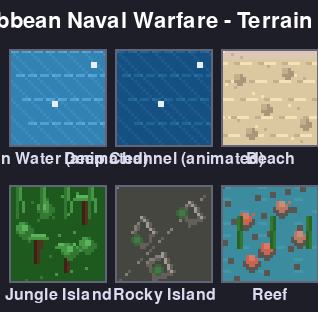
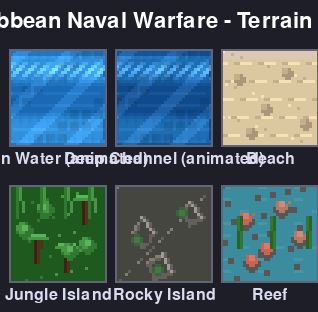
feat: Dramatically improve water animation with realistic wave physics
Completely rewrote water tile generation algorithm with multi-layer wave system:

- Layer 1: Large rolling waves using sine functions for horizontal motion (slow, realistic ocean swells)
- Layer 2: Diagonal waves creating depth and perpendicular motion (medium speed)
- Layer 3: Small ripples with fast perpendicular movement (surface detail)
- Layer 4: Dynamic foam on wave crests that appears at peak heights
- Layer 5: Animated sparkles simulating sunlight reflections on water surface
- Layer 6: Depth variations with darker patches for realistic ocean depth perception

Technical improvements:
- Used math.sin() with phase calculations (frame/8 * 2π) for smooth sinusoidal wave motion
- Multiple wave frequencies (0.3, 0.4, 0.8) create complex, natural-looking water
- Wave intensity blending from 0-1 for smooth color gradients
- Foam appears dynamically only on high wave crests (wave_height > 1.3)
- Sparkles cycle through 16-phase animation for twinkling effect
- Depth darkening adds 3D perception to flat tiles

Color palette refined:
- Caribbean blue tones: WATER_BASE (25,105,180) to WATER_HIGHLIGHT (80,170,240)
- Deep ocean variant: DEEP_BASE (15,75,140) for darker deep channel water
- White sparkles and blue-white foam for realistic highlights

Result: Stylized but realistic-looking animated ocean water with visible flowing waves, foam, and dynamic lighting effects. Water now looks like actual Caribbean ocean instead of flat blue tiles.

Changed region(s): [[0.0283, 0.1442, 0.3396, 0.4904], [0.3679, 0.1442, 0.6792, 0.4904]]

diff --git a/scripts/create_terrain_tiles.py b/scripts/create_terrain_tiles.py
@@ -21,17 +21,19 @@ pygame.init()
 TILE_SIZE = 32
 TRANSPARENT = (0, 0, 0, 0)
 
-# Water colors (animated gradients)
-WATER_LIGHT_1 = (80, 160, 210)
-WATER_LIGHT_2 = (90, 170, 220)
-WATER_MID_1 = (50, 130, 180)
-WATER_MID_2 = (60, 140, 190)
-WATER_DARK_1 = (30, 100, 150)
-WATER_DARK_2 = (40, 110, 160)
-WATER_DEEP_1 = (20, 80, 130)
-WATER_DEEP_2 = (25, 90, 140)
-FOAM_WHITE = (255, 255, 255)
-FOAM_LIGHT = (230, 240, 250)
+# Water colors - Caribbean ocean palette
+WATER_BASE = (25, 105, 180)        # Deep blue base
+WATER_MID = (35, 125, 200)         # Medium blue
+WATER_LIGHT = (50, 145, 220)       # Light blue
+WATER_HIGHLIGHT = (80, 170, 240)   # Bright highlight
+WATER_FOAM = (200, 220, 240)       # Foam white-blue
+WATER_SPARKLE = (255, 255, 255)    # White sparkle
+
+# Deep water colors (darker, deeper ocean)
+DEEP_BASE = (15, 75, 140)
+DEEP_MID = (20, 90, 160)
+DEEP_LIGHT = (30, 110, 180)
+DEEP_HIGHLIGHT = (45, 130, 200)
 
 # Beach/sand colors
 SAND_LIGHT = (245, 225, 180)
@@ -61,60 +63,145 @@ REEF_WATER = (60, 140, 160)
 
 
 def create_water_tile_animated(frame=0, is_deep=False):
-    """Create animated water tile with wave effects"""
+    """Create realistic animated water tile with flowing waves"""
     surface = pygame.Surface((TILE_SIZE, TILE_SIZE), pygame.SRCALPHA)
     
-    # Select colors based on depth
+    # Select color palette based on depth
     if is_deep:
-        base_color = WATER_DEEP_1 if frame % 2 == 0 else WATER_DEEP_2
-        mid_color = WATER_DARK_1 if frame % 2 == 0 else WATER_DARK_2
+        base = DEEP_BASE
+        mid = DEEP_MID
+        light = DEEP_LIGHT
+        highlight = DEEP_HIGHLIGHT
     else:
-        base_color = WATER_MID_1 if frame % 2 == 0 else WATER_MID_2
-        mid_color = WATER_LIGHT_1 if frame % 2 == 0 else WATER_LIGHT_2
+        base = WATER_BASE
+        mid = WATER_MID
+        light = WATER_LIGHT
+        highlight = WATER_HIGHLIGHT
     
-    # Base water
-    surface.fill(base_color)
+    # Animation phase (0 to 2*pi over 8 frames)
+    phase = (frame / 8.0) * 2 * math.pi
     
-    # Wave patterns (animated offset)
-    offset = (frame * 2) % 16
+    # Fill with base color
+    surface.fill(base)
     
-    # Horizontal waves
-    for y in range(0, TILE_SIZE, 8):
-        wave_y = (y + offset) % TILE_SIZE
-        # Light wave
-        for x in range(0, TILE_SIZE, 4):
-            wave_x = x + (wave_y // 4)
-            if wave_x < TILE_SIZE:
-                pygame.draw.line(surface, mid_color, 
-                               (wave_x, wave_y), (min(wave_x + 2, TILE_SIZE - 1), wave_y), 1)
-    
-    # Diagonal waves (for variety)
-    for i in range(-TILE_SIZE, TILE_SIZE, 6):
-        wave_offset = (i + offset) % (TILE_SIZE * 2)
-        x1 = wave_offset
-        y1 = 0
-        x2 = wave_offset + TILE_SIZE
-        y2 = TILE_SIZE
+    # Layer 1: Large rolling waves (slow, horizontal)
+    for y in range(TILE_SIZE):
+        # Sine wave with offset based on frame
+        wave_offset = math.sin(y * 0.3 + phase) * 2
+        wave_intensity = (math.sin(y * 0.3 + phase) + 1) / 2  # 0 to 1
         
-        if 0 <= x1 < TILE_SIZE * 2:
-            # Draw subtle diagonal highlight
-            for j in range(TILE_SIZE):
-                px = x1 + j - TILE_SIZE
-                py = y1 + j
-                if 0 <= px < TILE_SIZE and 0 <= py < TILE_SIZE:
-                    current = surface.get_at((px, py))
-                    # Lighten slightly
-                    new_color = (min(current[0] + 10, 255), 
-                               min(current[1] + 10, 255), 
-                               min(current[2] + 10, 255))
-                    surface.set_at((px, py), new_color)
+        for x in range(TILE_SIZE):
+            # Calculate wave position
+            wx = int(x + wave_offset)
+            if 0 <= wx < TILE_SIZE:
+                # Blend colors based on wave intensity
+                if wave_intensity > 0.7:
+                    color = light
+                elif wave_intensity > 0.4:
+                    color = mid
+                else:
+                    color = base
+                
+                # Apply color with some horizontal variation
+                blend = min(wave_intensity + (x % 3) * 0.1, 1.0)
+                final_color = (
+                    int(base[0] + (color[0] - base[0]) * blend),
+                    int(base[1] + (color[1] - base[1]) * blend),
+                    int(base[2] + (color[2] - base[2]) * blend)
+                )
+                surface.set_at((x, y), final_color)
     
-    # Occasional foam (sparkles)
-    if frame % 4 < 2:
-        foam_positions = [(5, 8), (20, 15), (10, 25), (28, 5), (15, 18)]
-        for fx, fy in foam_positions:
-            if (fx + fy + frame) % 8 < 3:
-                pygame.draw.circle(surface, FOAM_LIGHT, (fx, fy), 1)
+    # Layer 2: Diagonal waves (medium speed, creates depth)
+    for y in range(TILE_SIZE):
+        for x in range(TILE_SIZE):
+            # Diagonal wave pattern
+            wave_val = math.sin((x + y) * 0.4 - phase * 1.5) * 0.5 + 0.5
+            
+            if wave_val > 0.75:
+                current = surface.get_at((x, y))
+                # Lighten pixels on wave crests
+                brightened = (
+                    min(current[0] + 15, 255),
+                    min(current[1] + 20, 255),
+                    min(current[2] + 25, 255)
+                )
+                surface.set_at((x, y), brightened)
+    
+    # Layer 3: Small ripples (fast, perpendicular)
+    for y in range(0, TILE_SIZE, 2):
+        ripple_offset = math.sin(y * 0.8 - phase * 2) * 1.5
+        ripple_intensity = abs(math.sin(y * 0.8 - phase * 2))
+        
+        if ripple_intensity > 0.6:
+            for x in range(TILE_SIZE):
+                rx = int(x + ripple_offset)
+                if 0 <= rx < TILE_SIZE:
+                    current = surface.get_at((rx, y))
+                    # Add subtle highlights
+                    highlighted = (
+                        min(current[0] + 8, 255),
+                        min(current[1] + 10, 255),
+                        min(current[2] + 12, 255)
+                    )
+                    surface.set_at((rx, y), highlighted)
+    
+    # Layer 4: Wave crests with foam
+    for y in range(TILE_SIZE):
+        # Create foam on high wave peaks
+        wave_height = math.sin(y * 0.3 + phase) + math.sin(y * 0.15 + phase * 0.5)
+        
+        if wave_height > 1.3:  # High crest
+            for x in range(TILE_SIZE):
+                # Foam pattern
+                foam_intensity = wave_height - 1.3
+                if (x + y + frame) % 4 < 2:  # Scattered foam
+                    foam_color = (
+                        int(WATER_FOAM[0] * foam_intensity * 0.6),
+                        int(WATER_FOAM[1] * foam_intensity * 0.6),
+                        int(WATER_FOAM[2] * foam_intensity * 0.6)
+                    )
+                    current = surface.get_at((x, y))
+                    blended = (
+                        min(current[0] + foam_color[0], 255),
+                        min(current[1] + foam_color[1], 255),
+                        min(current[2] + foam_color[2], 255)
+                    )
+                    surface.set_at((x, y), blended)
+    
+    # Layer 5: Sparkles (sunlight reflections on water)
+    sparkle_positions = [
+        (4, 6), (12, 3), (20, 10), (28, 8),
+        (7, 18), (16, 15), (24, 22), (10, 28),
+        (18, 25), (26, 19)
+    ]
+    
+    for sx, sy in sparkle_positions:
+        # Sparkles appear and fade with animation
+        sparkle_phase = (sx + sy + frame * 2) % 16
+        if sparkle_phase < 3:
+            # Bright sparkle
+            if sparkle_phase == 1:
+                surface.set_at((sx, sy), WATER_SPARKLE)
+            else:
+                surface.set_at((sx, sy), highlight)
+    
+    # Layer 6: Depth variations (darker patches for realism)
+    for y in range(0, TILE_SIZE, 4):
+        for x in range(0, TILE_SIZE, 4):
+            depth_variation = math.sin(x * 0.2 + y * 0.3 + phase * 0.3) * 0.3
+            if depth_variation < -0.15:
+                # Darken this area slightly
+                for dy in range(3):
+                    for dx in range(3):
+                        px, py = x + dx, y + dy
+                        if 0 <= px < TILE_SIZE and 0 <= py < TILE_SIZE:
+                            current = surface.get_at((px, py))
+                            darkened = (
+                                max(int(current[0] * 0.9), 0),
+                                max(int(current[1] * 0.9), 0),
+                                max(int(current[2] * 0.9), 0)
+                            )
+                            surface.set_at((px, py), darkened)
     
     return surface
 

diff --git a/scripts/view_water_animation.py b/scripts/view_water_animation.py
@@ -1,0 +1,101 @@
+"""
+View animated water tiles in action
+Shows all 8 frames cycling to see the wave motion
+"""
+
+import pygame
+import os
+import time
+
+pygame.init()
+
+# Display configuration
+TILE_SIZE = 32
+SCALE = 4  # Scale up for better viewing
+DISPLAY_SIZE = TILE_SIZE * SCALE
+PADDING = 20
+
+# Create window
+screen = pygame.display.set_mode((DISPLAY_SIZE * 2 + PADDING * 3, DISPLAY_SIZE + PADDING * 2 + 50))
+pygame.display.set_caption('Caribbean Water Animation - Wave Flow')
+
+# Load all 8 frames for both water types
+open_water_frames = []
+deep_channel_frames = []
+
+for i in range(8):
+    # Open water
+    path = f"resources/icons/open_water_frame_{i}.png"
+    if os.path.exists(path):
+        frame = pygame.image.load(path)
+        scaled = pygame.transform.scale(frame, (DISPLAY_SIZE, DISPLAY_SIZE))
+        open_water_frames.append(scaled)
+    
+    # Deep channel
+    path = f"resources/icons/deep_channel_frame_{i}.png"
+    if os.path.exists(path):
+        frame = pygame.image.load(path)
+        scaled = pygame.transform.scale(frame, (DISPLAY_SIZE, DISPLAY_SIZE))
+        deep_channel_frames.append(scaled)
+
+# Font
+font = pygame.font.Font(None, 28)
+title_font = pygame.font.Font(None, 36)
+
+# Animation control
+clock = pygame.time.Clock()
+frame_index = 0
+frame_time = 0
+FPS = 60
+FRAME_DURATION = 0.15  # Same as in game
+
+print("🌊 Water Animation Viewer")
+print("   Watch the waves flow naturally!")
+print("   Press any key or close window to exit")
+
+running = True
+while running:
+    dt = clock.tick(FPS) / 1000.0  # Delta time in seconds
+    frame_time += dt
+    
+    # Advance frame
+    if frame_time >= FRAME_DURATION:
+        frame_time = 0
+        frame_index = (frame_index + 1) % 8
+    
+    # Handle events
+    for event in pygame.event.get():
+        if event.type == pygame.QUIT:
+            running = False
+        elif event.type == pygame.KEYDOWN:
+            running = False
+    
+    # Clear screen
+    screen.fill((20, 30, 50))
+    
+    # Title
+    title = title_font.render('Caribbean Water Animation', True, (255, 255, 255))
+    screen.blit(title, (screen.get_width() // 2 - title.get_width() // 2, 10))
+    
+    # Draw current frames
+    if open_water_frames:
+        screen.blit(open_water_frames[frame_index], (PADDING, PADDING + 40))
+        label = font.render('Open Water', True, (200, 220, 255))
+        screen.blit(label, (PADDING + DISPLAY_SIZE // 2 - label.get_width() // 2, 
+                           PADDING + DISPLAY_SIZE + 45))
+    
+    if deep_channel_frames:
+        screen.blit(deep_channel_frames[frame_index], (PADDING * 2 + DISPLAY_SIZE, PADDING + 40))
+        label = font.render('Deep Channel', True, (150, 180, 220))
+        screen.blit(label, (PADDING * 2 + DISPLAY_SIZE + DISPLAY_SIZE // 2 - label.get_width() // 2, 
+                           PADDING + DISPLAY_SIZE + 45))
+    
+    # Frame counter
+    frame_text = font.render(f'Frame {frame_index + 1}/8', True, (180, 180, 180))
+    screen.blit(frame_text, (screen.get_width() // 2 - frame_text.get_width() // 2, 
+                            screen.get_height() - 25))
+    
+    pygame.display.flip()
+
+pygame.quit()
+print("✅ Animation viewer closed")
